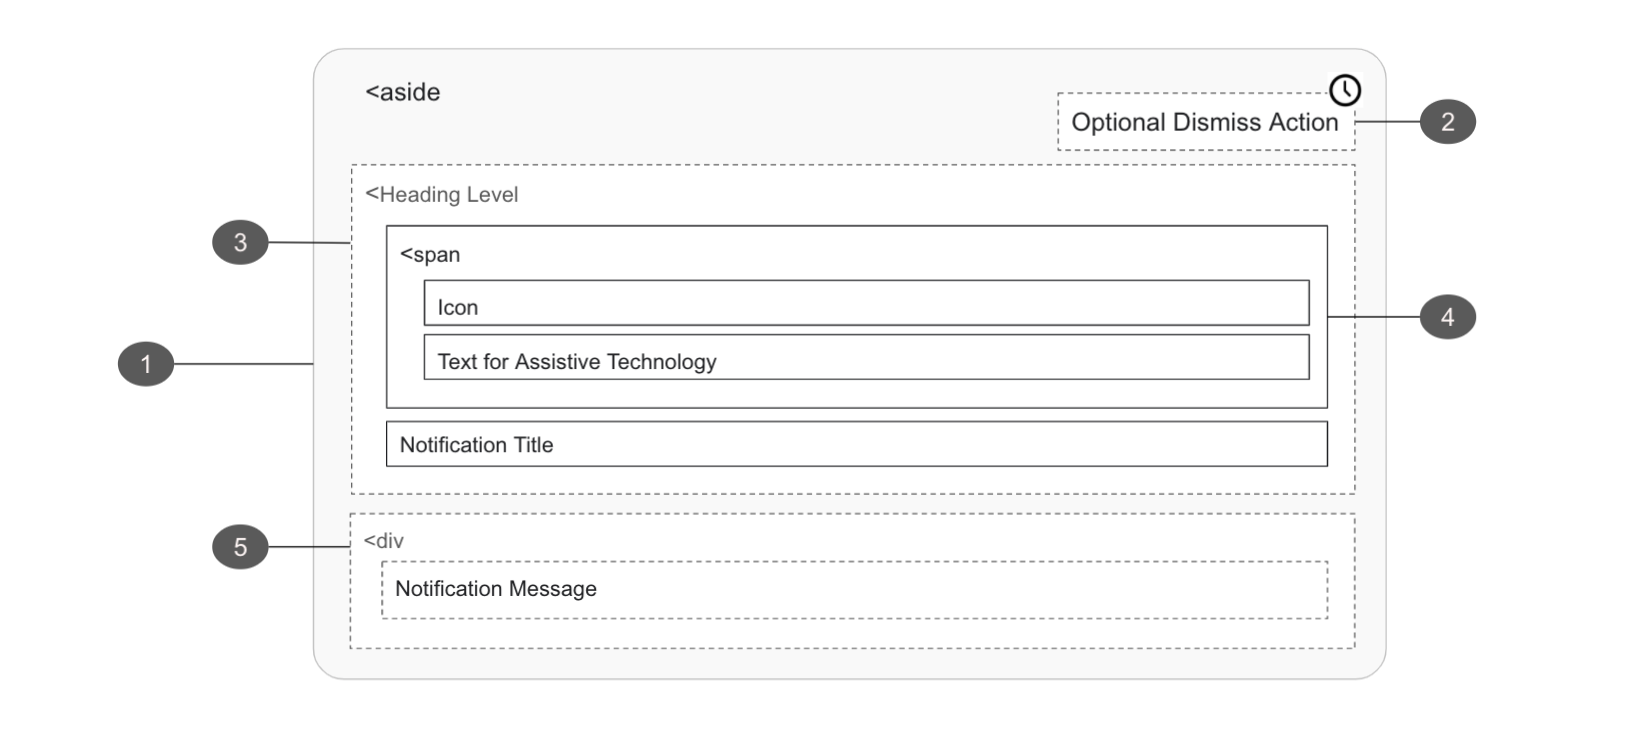
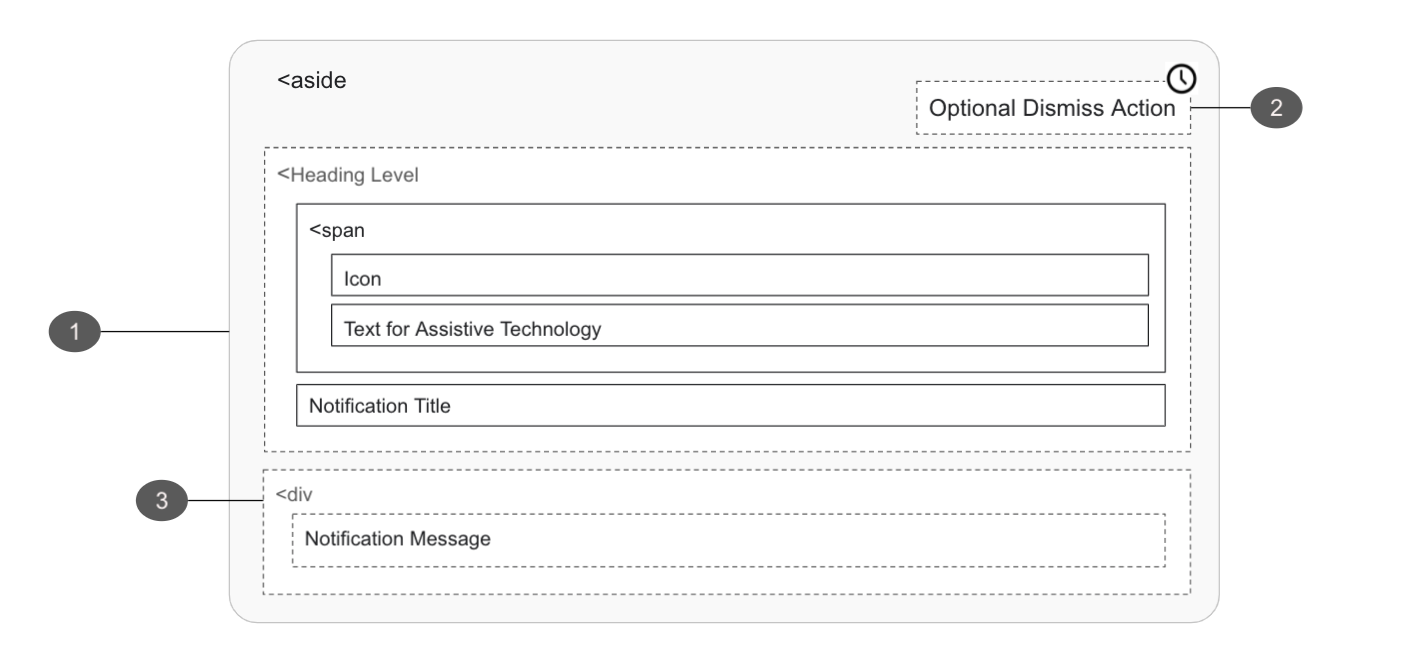
orginize requierments to annotations

Changed region(s): [[0.0311, 0.0617, 0.9335, 0.9259], [0.8091, 0.7716, 0.8713, 0.8642]]

diff --git a/docs/patterns/update-and-loading-notifications/README.md b/docs/patterns/update-and-loading-notifications/README.md
@@ -242,292 +242,4 @@ Content container:
 - *Cdr-loading - potential component*
 
 
-### Validation
-
-- **Form errors, warnings, success or status responses based on user input**
-
-Form validation responses provide unexpected instruction on blocking problems that must be fixed before moving on. 
-Additionally, these messages may respond to input informing the user of further updates needed and or to inform the user that an error has been resolved.
-It is critical that these notifications accurately inform and help to clarify the issues being presented to users.
-#### At A Glance
-<cdr-table class="advanced-table" full-width=false>
-  <tr>
-    <th class="advanced-table__header">
-      Priority
-    </th>
-    <td>High</td>
-  </tr>
-  <tr>
-    <th class="advanced-table__header">
-      Expectancy
-    </th>
-    <td>Unexpected</td>
-  </tr>
-  <tr>
-    <th class="advanced-table__header">
-      Purpose
-    </th>
-    <td>
-        <ul>
-          <li>As a form validation message</li>
-          <li>As confirmation that an error was resolved successfully</li>
-          <li>Notifying users of a potential problem that may require their attention</li>
-        </ul>
-    </td>
-  </tr>
-  <tr>
-    <th class="advanced-table__header">Interaction</th>
-    <td>Non-blocking, Required</td>
-  </tr>
-  <tr>
-    <th class="advanced-table__header">Information</th>
-    <td>Meaningful instruction</td>
-  </tr>
-</cdr-table>
-
-#### Use When
-- The notification is directly associated with a form or element within the form
-- Use when you need to provide a user the status of an action they’re trying to complete
-- As a validation message that notifies someone that they just did something that needs to be corrected (See Error and Warning Types)
-- Resolving the instruction within the notification is required
-- The notification content provides instructions to resolve an error, warning, or confirms success of a resolved error
-#### Don't Use When
-- The error or warning is time sensitive, instead replace `role="status"` with `role="alert` as outlined in [alert](../alerts)
-
-#### Anatomy of a Validation Notification
-These notifications are associated with special "required" 
-elements on the page and where possible should be added to the DOM under the element that needs the users attention
-
-<cdr-img :src="$withBase('/notifications/validationAnatomy.png')" alt="Diagram showing the required layout of the elements listed below" />
-
-1. **[Validating a required form field](#validating-a-required-form-field)**
-2. **[Display](#required-form-fields-display)**
-3. **[Static properties](#required-form-fields-static-properties)**
-4. **[Error Detection](#required-form-fieldson-validation)**
-5. **[Notification Instruction container](#notification-instruction)**
-6. **[visual aid and Assistive technology text](#visual-aid-and-assistive-technology-text)**
-7. **[Instruction](#instruction)**
-#### Validating a required form field
-
-Validation Notifications used to present instructions on user errors have specific accessibility requirements. These include:
-
-- **Must**
-  - Identify each field in error
-  - Providing suggestions (when known) to correct the errors
-  - Preserve as much user-entered input as possible
-
--  **Should**
-  - Correctly filled out user provided data in a form that contains errors **SHOULD** remain populated post-submit.
-  - Confirm successful submission of data.
-  - Provide an explanation to the when user when the submit button is not available
-- **Should Not**
-  - rely solely on visual cues to indicate an error
-  - alter the user provided input to make it validate without providing the user with a validation message conveying this change
-
-  ##### Client-side Validation
-Client-side validation results in a better user experience and makes resolving validation errors more understandable.
-By using script languages user’s input can be validated as they type. This means a more responsive, visually rich validation.
-With client-side validation, form never gets submitted if validation fails. 
-
-##### Server-side Validation
-**Server-side Validation responses occur as part of a page refresh, the are available as part of a pages content and are not notifications.**
-With these responses information is being sent to the server and validated using server-side languages. 
-If the validation fails, the response is then sent back, the page is refreshed and the new data is presented to the users.
-
-This experience is while less optimal than client validation can be helped with the following considerations:
-
-- **May**
-  - Change the title of the page
-  - Give the error a heading level: Provide a header, preferably a H1, so that assistive technology users can jump directly to the error and correct it.
-  - Visually style the error in such a way that it is distinguishable from other content
-  - Provide a same-page link so that users can jump directly to the form field that has the error.
-
-#### Required Form Fields Display
-The Asterisks may not be read by all screen readers (in all reading modes) and may be difficult for users with low vision because they are rendered in a smaller size than default text.
-It is important for authors to include the text indicating that asterisk is used and to consider increasing the size of the asterisk that is presented.
-
-- **Should**
-  - Require only fields that are absolutely needed
-  - Required fields **SHOULD** have a visual indicator that the field is required.
-  - Ensure that information conveyed by color differences is also available in text.
-
-#### Required Form Fields Static properties
-
-- **Must**
-  - Set `Required` or `aria-required` to true for inputs that must be completed by the user
-- **Should**
-  - Require only fields that are absolutely needed
-  - Required fields **SHOULD** be programmatically designated as such. Note: At a minimum, WCAG requires an informative error message about the field after the user submits the form.
-  - Ensure assistive technology is provided text conveying that the field is required
-
-##### aria-required or required 
-
-#### Required Form Fields On validation
-- **Must**
-  - Identify each field in error
-  - Preserve as much user-entered input as possible
-  - set [aria-invalid](#aria-invalid) to `true`
-  - map the associated id of the notification instruction to the [aria-errormessage](aria-errormessage) attribute for each field in error
-- **May**
-  - also use '[aria-describedby]()' in conjunction with [aria-errormessage](aria-errormessage)
-
-#### Notification Instruction
-WCAG 1.3.3, WCAG 3.3.2 provide the following guidelines for validation instructions.
-When users enter input that is validated, and errors are detected, the nature of the error needs 
-to be described to the user in manner they can access. One approach is to present an alert dialog 
-that describes fields with errors when the user attempts to submit the form. Another approach, 
-if validation is done by the server, is to return the form (with the user's data still in the fields) 
-and a text description at the top of the page that indicates the fact that there was a validation problem, 
-describes the nature of the problem, and provides ways to locate the field(s) with a problem easily. 
-The "in text" portion of the Success Criterion underscores that it is not sufficient simply to indicate 
-that a field has an error by putting an asterisk on its label or turning the label red. 
-A text description of the problem should be provided.
-
-- **Must**
-  - Providing suggestions (when known) to correct the errors
-  - Ensure the message container can receive focus
-  - Include the [`aria-live` or `role=”status”`](role-status-or-aria-live) markup to announce the notification without interrupting the page flow of the user
-- **Should**
-  - be visually and programmatically adjacent to the element.
-- **Should Not**
-  - rely solely on visual cues to indicate an error
-- **May**
-  - Be hidden until the user requests them if the notification instructions are not critical.
-
-#### visual aid and Assistive technology text
-
--**Should**
--  if the text does not specifically call out the state of the message, error, warning, success, or info - that text should be provided via screen reader accessible text
-
-#### Instruction
-- **Must**
-  - Be available as programmatically-discernible text
-  - Be meaningful
-  - Be visible
-  - Clearly and accurately describe the error and/or how to fix the error.
-  - Succinctly describe how a user can resolve the problem.
-  - Help users understand how to fix problems
-  - provide instruction that is as specific as possible
-- **Must Not**
-  - Rely solely on references to sensory characteristics (for example, "round button" or "button to the right")
--  **Should**
-  - Provide an explanation when the submit button is not available
-#### Role status / aria-live
-
--  **Should Not**
-  - Be scripted to occur with every keystroke unless there is a delay built into the script to avoid announcements while the user is actively typing.
-  - Be scripted to occur when a user leaves a field, because the `aria-live`
-    announcement may conflict with the screen reader's attempt to read the next
-    element which receives focus, causing some information to be interrupted
-    or not announced at all.
-- **May**
-  - Be scripted to show on the screen for sighted users, but attempts to announce the real-time messages to screen reader users
-    can be problematic. It is usually acceptable to wait to announce
-    real-time errors until after form submission, assuming that no data has been saved yet.
-
-Find more information on this topic in the [Accessibility References](#accessibility-references)
-
-
-#### Error Suggestion
-- **Must**
-  - If an input error is automatically detected, the item that is in error is identified and the error is described to the user in text WCAG 3.3.3
-
-Find more information on this topic in the [Accessibility References](#accessibility-references)
-
-https://www.w3.org/TR/UNDERSTANDING-WCAG20/minimize-error-suggestions.html
-#### Error Prevention
-If the form is submitting any of the following:
-
--  legal commitments
--  financial transactions
--  user-controllable data (e.g. user profile, social media posts)
-
-we are required to implement at least one of the following error prevention techniques:
-
--  Reversible: Submissions are reversible.
--  Checked: Data entered by the user is checked for input errors and the user is provided an opportunity to correct them.
--  Confirmed: A mechanism is available for reviewing, confirming, and correcting information before finalizing the submission.
-
-Find more information on this topic in the [Accessibility References](#accessibility-references)
-
-#### Error Detection
-
-##### aria-invalid
-indicate that the value entered into an input field does not conform to the format expected by the application. This may include formats such as email addresses or telephone numbers. aria-invalid can also be used to 
-indicate that a required field has not been filled in.
-The attribute should be programmatically set as a result of a validation process.
-
--  Add aria-invalid="true" to the input
--  Identify the input (referencing the label):
-  - In a simple JavaScript alert
-  - with information associated with the input via aria-describedby (widely supported) or aria-errormessage (not yet widely supported)
-  - with error text added to the input's label (other techniques are more semantically correct, but this is a reliable method)
-  - with text on the web page (it may be appropriate to move the keyboard focus to the error message)
-  - with an aria-live or role="alert" announcement
-  - with information about the error in the page `<title>` if the submission causes a page reload or a new page load.
-
-Find more information on this topic in the [Accessibility References](#accessibility-references)
-
-##### aria-errormessage
-The `aria-errormessage` attribute takes an ID reference in the same manner as `aria-describedby`, and is only exposed when aria-invalid is set to ‘true’ on the same element. The use of a live region attribute such as aria-live=”polite” on the error message container element is optional.
-
-Placed on input and mapped via id to error message.
-used to:
-  - Associate instructions with form fields
-  - Provide information on the outcome of an action
-  - To provide verbal information that may be conveyed via visual cues 
-  - associate tooltips to form fields
-
-- Error feedback SHOULD be programmatically-associated with the appropriate element.
-- When `aria-errormessage` is pertinent, authors MUST ensure the content is not hidden
-- Authors MUST either ensure the content is hidden or remove the aria-errormessage attribute or its value.
-- User agents MUST NOT expose aria-errormessage for an object with an aria-invalid value of false.
-
-Find more information on this topic in the [Accessibility References](#accessibility-references)
-#### Success Detection
-Use at least one of the following techniques:
-
--  Confirmation text on the web page 
-(it may be appropriate to move the keyboard focus to the error message)
--  **Aria-live announcement**
-
--  Confirmation message in the page `<title>` if the submission causes a page reload or a new page load.
-#### Using Available Cedar Components
-by default, cedar form elements error message pattern  default to adding `role="status`, automatically setting your validation to a notification
-the following Cedar components provide generic validation styling
-- cdr-input
-- cdr-form-group
-- cdr-select
-
-As a notification is generally what you will use for error validation, the cedar form components error message container role defaults to `role="status"`. All you have to do is provide the messaging.
-
-TODO- something about how we only provide the UI/container but not validation logic
-
-
-
-#### Accessibility References
-- [Notifications and feedback](https://www.w3.org/WAI/perspective-videos/notifications/)
-- [Accessible Notifications](https://www.w3.org/WAI/RD/wiki/Accessible_Notifications)
-- [WCAG status messages 4.1.3](https://www.w3.org/WAI/WCAG21/Understanding/status-messages.html)
-- [WCAG Error Identification 3.3.1 (lvl A)](https://www.w3.org/WAI/WCAG21/Understanding/error-identification.html)
-- [WCAG Labels or Instructions 3.3.2 (lvl A)](https://www.w3.org/WAI/WCAG21/Understanding/labels-or-instructions)
-- [WCAG Error Suggestion 3.3.3 (lvl AA)](https://www.w3.org/WAI/WCAG21/Understanding/error-suggestion)
-- [WCAG Error Prevention 3.3.4 (lvl AA) ](https://www.w3.org/WAI/WCAG21/Understanding/error-prevention-legal-financial-data)
-- [Form Notifications](https://www.w3.org/WAI/tutorials/forms/notifications/)
-- [Using Aria-Invalid to Indicate An Error Field](https://www.w3.org/WAI/WCAG21/Techniques/aria/ARIA21.html)
-- [Using the aria-describedby property to provide a descriptive label for user interface controls](https://www.w3.org/WAI/WCAG21/Techniques/aria/ARIA1.html)
-- Use [aria-live](https://developer.mozilla.org/en-US/docs/Web/Accessibility/ARIA/ARIA_Live_Regions) to indicate that an element will be updated. It describes the types of updates the user agents, assistive technologies, and user can expect from the live region.
-- Use [aria-atomic](https://www.digitala11y.com/aria-atomic-properties/) to indicate whether assistive technologies will present all, or only parts of the changed region based on the change notifications defined by the aria-relevant attribute.
-- [aria-relevant](https://developer.mozilla.org/en-US/docs/Web/Accessibility/ARIA/ARIA_Techniques/Using_the_aria-relevant_attribute)
-describes semantically meaningful changes as opposed to merely presentational ones
-
-
-## Move to Form doc as these are not specific to the notification validation topic but to the broader Form validation
-
-
-##### Disabled elements
-
--  Some dynamic forms will make the submit button unavailable until the form is completed correctly. 
-This can be very confusing to users if insufficient error identification is provided
-
 </cdr-doc-table-of-contents-shell>

diff --git a/docs/patterns/status-notifications/Readme.md b/docs/patterns/status-notifications/Readme.md
@@ -126,22 +126,17 @@ Additionally, they may open based on conditions a user has created or criterium 
 <cdr-img :src="$withBase('/notifications/persistentStatusAnatomy.png')" alt="Diagram for persistent status notifications, annotating the required layout of the elements listed below" />
 
 1. [Status Container](#status-container)
-2. Optional Dismiss Action - Enables the user to remove the notification from view.
-3. Title - Briefly summarizes alert content.
-4. Visual and Assistive technology aid
-5. Message - Includes the core, most important alert content.
+2. [Optional Dismiss Action](#optional-dismiss-action)
+3. [Message](#message)
 
 #### Status Container
 - **Must**
   - on activation, add `role=”status”` to the markup announcing the notification without interrupting the page flow of the user
-  - Not contain unique actionable items if the notification is an overlay
   - Ensure the notification container is able to receive focus
 - **Should**
-  - Be used for short messages to confirm an action
   - Authors SHOULD ensure an element with role status does not receive focus as a result of change in status.
   - Status is a form of live region. If another part of the page controls what appears in the status, 
 authors SHOULD make the relationship explicit with the aria-controls attribute.
-  - Clearly communicate what is happening
 - **Should not**
   - Open as a blocking overlay window
   - Move Focus automatically to the notification
@@ -156,7 +151,7 @@ authors SHOULD make the relationship explicit with the aria-controls attribute.
   - Include `aria-atomic` markup attribute to define what content will be presented to assistive technologies
   - Include `aria-relevant` to define what type of changes are being announced to assistive technologies
 
-#### status dismissal
+#### Optional Dismiss Action
 - **Must**
   - Ensure notification will not be removed if keyboard focus or mouse hover is within or over the notification.
   - Return user focus to a logical location.
@@ -166,6 +161,11 @@ authors SHOULD make the relationship explicit with the aria-controls attribute.
     - On dismiss, must return focus to the next logical location in the page flow
 - **Should not**
   - Create notifications that disappear automatically
+
+#### Message
+- **Should**
+  - Be used for short messages to confirm an action
+  - Clearly communicate what is happening
 
 ## Transient Status notifications
 
